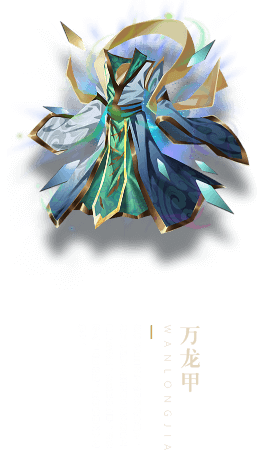
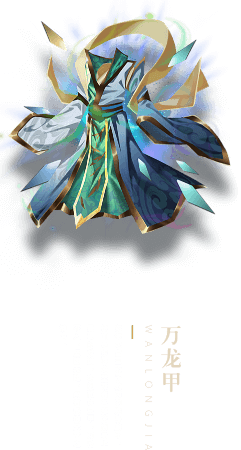
123

diff --git a/desktop/src/page/h5index.html b/desktop/src/page/h5index.html
@@ -300,25 +300,25 @@
             <div class="swiper-container swiper-container-v1" id="swiper2">
               <div class="swiper-wrapper">
                 <div class="swiper-slide">
-                  <img src="<%= require('../assets/img/box6-1.png') %>" class="wq-tp" data-imgIndex="1" />
+                  <img src="<%= require('../assets/img/box6-1.png') %>" class="wq-tp wq-tp1" data-imgIndex="1" />
                 </div>
                 <div class="swiper-slide">
-                  <img src="<%= require('../assets/img/box6-2.png') %>" class="wq-tp" data-imgIndex="2" />
+                  <img src="<%= require('../assets/img/box6-2.png') %>" class="wq-tp wq-tp2" data-imgIndex="2" />
                 </div>
                 <div class="swiper-slide" style="width: fit-content;">
-                  <img src="<%= require('../assets/img/box6-3.png') %>" class="wq-tp" data-imgIndex="3" />
+                  <img src="<%= require('../assets/img/box6-3.png') %>" class="wq-tp wq-tp3" data-imgIndex="3" />
                 </div>
                 <div class="swiper-slide" style="width: fit-content;">
-                  <img src="<%= require('../assets/img/box6-4.png') %>" class="wq-tp" data-imgIndex="4" />
+                  <img src="<%= require('../assets/img/box6-4.png') %>" class="wq-tp wq-tp4" data-imgIndex="4" />
                 </div>
                 <div class="swiper-slide" style="width: fit-content;">
-                  <img src="<%= require('../assets/img/box6-5.png') %>" class="wq-tp" data-imgIndex="5" />
+                  <img src="<%= require('../assets/img/box6-5.png') %>" class="wq-tp wq-tp5" data-imgIndex="5" />
                 </div>
                 <div class="swiper-slide" style="width: fit-content;">
-                  <img src="<%= require('../assets/img/box6-6.png') %>" class="wq-tp" data-imgIndex="6" />
+                  <img src="<%= require('../assets/img/box6-6.png') %>" class="wq-tp wq-tp6" data-imgIndex="6" />
                 </div>
                 <div class="swiper-slide" style="width: fit-content;">
-                  <img src="<%= require('../assets/img/box6-7.png') %>" class="wq-tp" data-imgIndex="7" />
+                  <img src="<%= require('../assets/img/box6-7.png') %>" class="wq-tp wq-tp7" data-imgIndex="7" />
                 </div>
               </div>
             </div>

diff --git a/desktop/src/scss/h5index.css b/desktop/src/scss/h5index.css
@@ -663,6 +663,24 @@
   display: block;
   transform: scale(0.7);
 }
+.box6 .swiper-container-v1 .swiper-slide .wq-tp1 {
+  transform: scale(0.7) translate(10vw, 0px);
+}
+.box6 .swiper-container-v1 .swiper-slide .wq-tp2 {
+  transform: scale(0.7) translate(15vw, 4vh);
+}
+.box6 .swiper-container-v1 .swiper-slide .wq-tp3 {
+  transform: scale(0.7) translate(14vw, 0vh);
+}
+.box6 .swiper-container-v1 .swiper-slide .wq-tp4 {
+  transform: scale(0.7) translate(10vw, 5vh);
+}
+.box6 .swiper-container-v1 .swiper-slide .wq-tp5 {
+  transform: scale(0.7) translate(12vw, 0vh);
+}
+.box6 .swiper-container-v1 .swiper-slide .wq-tp6 {
+  transform: scale(0.7) translate(3vw, 0vh);
+}
 .hero-card {
   position: absolute;
   left: 0px;
@@ -699,13 +717,16 @@
   transform: scale(0.6) translate(10px, 20px);
 }
 .cardHero3 {
-  transform: scale(0.6) translate(12%, 20px);
+  transform: scale(0.6) translate(15%, 20px);
 }
 .cardHero4 {
   transform: scale(0.6) translate(50px, 20px);
 }
 .cardHero5 {
-  transform: scale(0.6) translate(60px, 20px);
+  transform: scale(0.6) translate(25vw, 0px);
+}
+.cardHero6 {
+  transform: scale(0.6) translate(25vw, 0px);
 }
 .hero-card .cardHerott4 {
   transform: translate(-42%, -60%);
@@ -720,7 +741,7 @@
   left: 35%;
 }
 .hero-card .cardHerott6 {
-  transform: translate(-42%, -60%);
+  transform: translate(-74vw, -65%);
 }
 .hero-card .cardHerott7 {
   transform: translate(-48%, -60%);

diff --git a/desktop/src/js/h5index.js b/desktop/src/js/h5index.js
@@ -139,8 +139,23 @@ $(function() {
   },]
   const closed = require('../assets/img/closed.png')
   function init() {
+    var srcImg1 = new Image();
+    srcImg1.src = "http://material-mhtsdk.jingmakeji.top/2020-08-13/6699613236997791744.gif";
+    var srcImg2 = new Image();
+    srcImg2.src = "http://material-mhtsdk.jingmakeji.top/2020-08-17/6700952274354708480.gif";
+    var srcImg3 = new Image();
+    srcImg3.src = "http://material-mhtsdk.jingmakeji.top/2020-08-13/6699613605454815232.gif";
+    var srcImg4 = new Image();
+    srcImg4.src = 'http://material-mhtsdk.jingmakeji.top/2020-08-17/6700952272953810944.gif';
+    var srcImg5 = new Image();
+    srcImg5.src = 'http://material-mhtsdk.jingmakeji.top/2020-08-13/6699614050650824704.gif';
+    var srcImg6 = new Image();
+    srcImg6.src = 'http://material-mhtsdk.jingmakeji.top/2020-08-17/6700952269468344320.gif';
+    var srcImg7 = new Image();
+    srcImg7.src = 'http://material-mhtsdk.jingmakeji.top/2020-08-18/6701332076483977216.gif';
+    var srcImg8 = new Image();
     // 初始化
-    var vConsole = new VConsole();
+    // var vConsole = new VConsole();
     swiper = new Swiper('.swiper-container-h', {
       direction: 'vertical',
       mousewheel: true,
